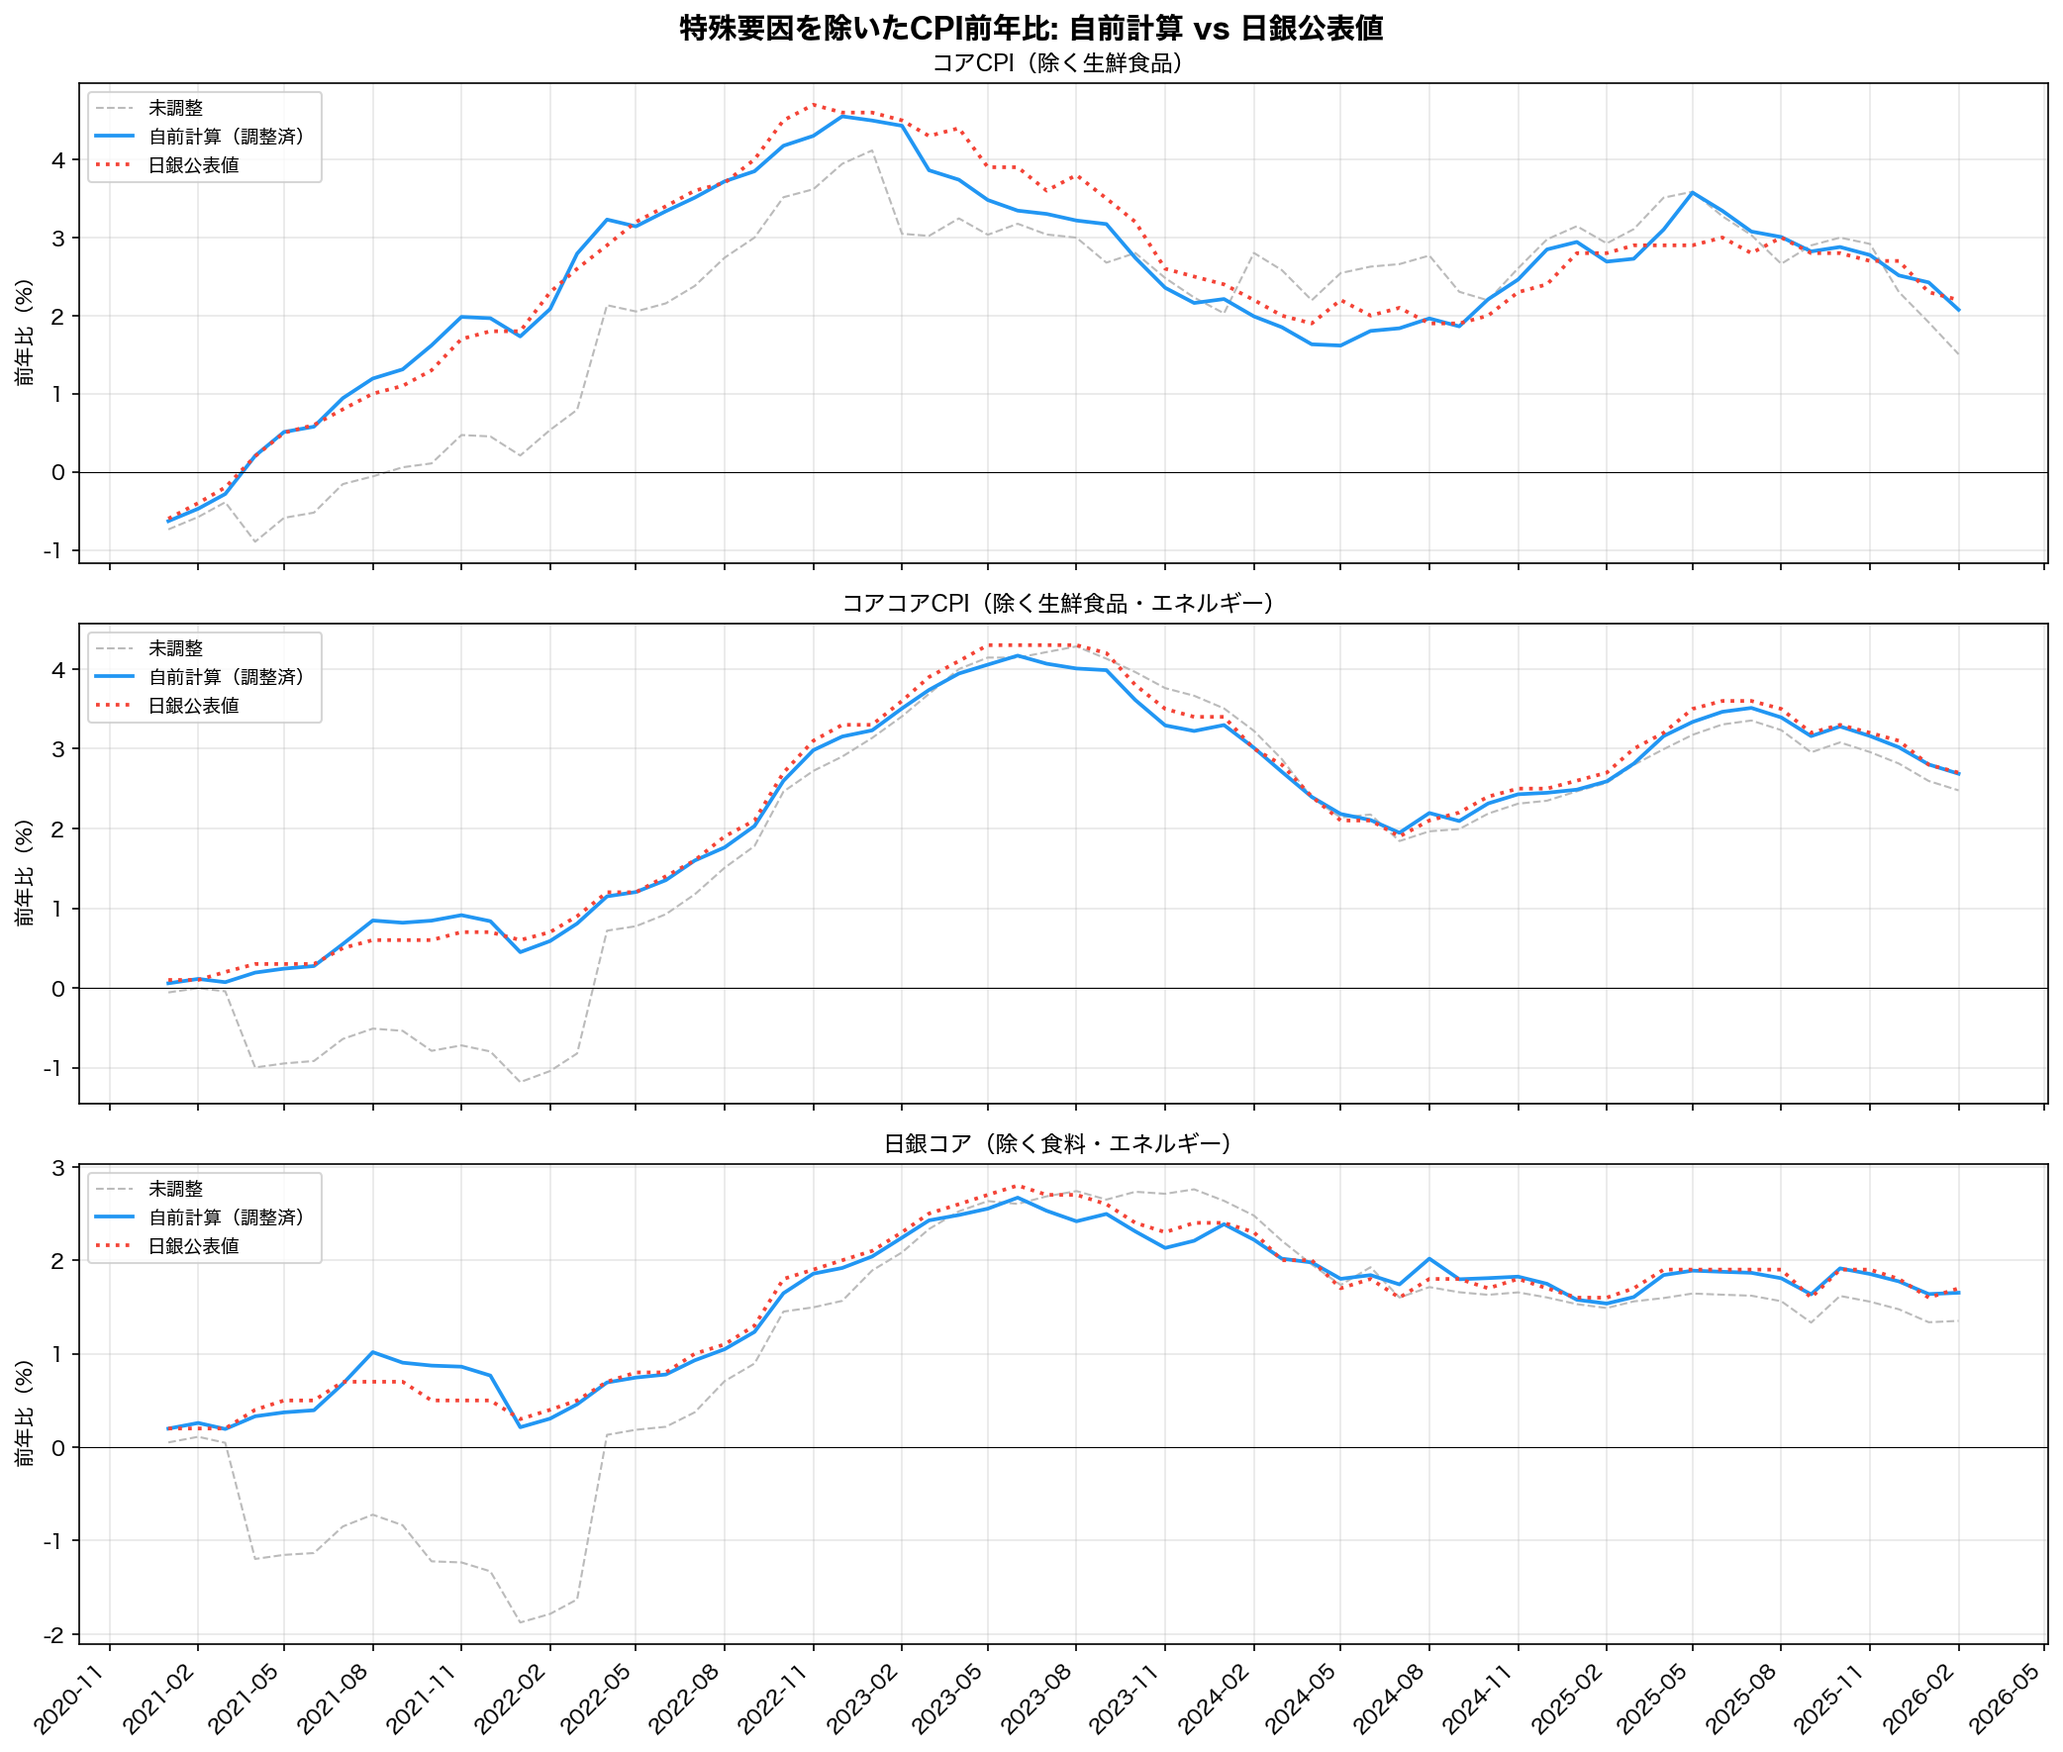
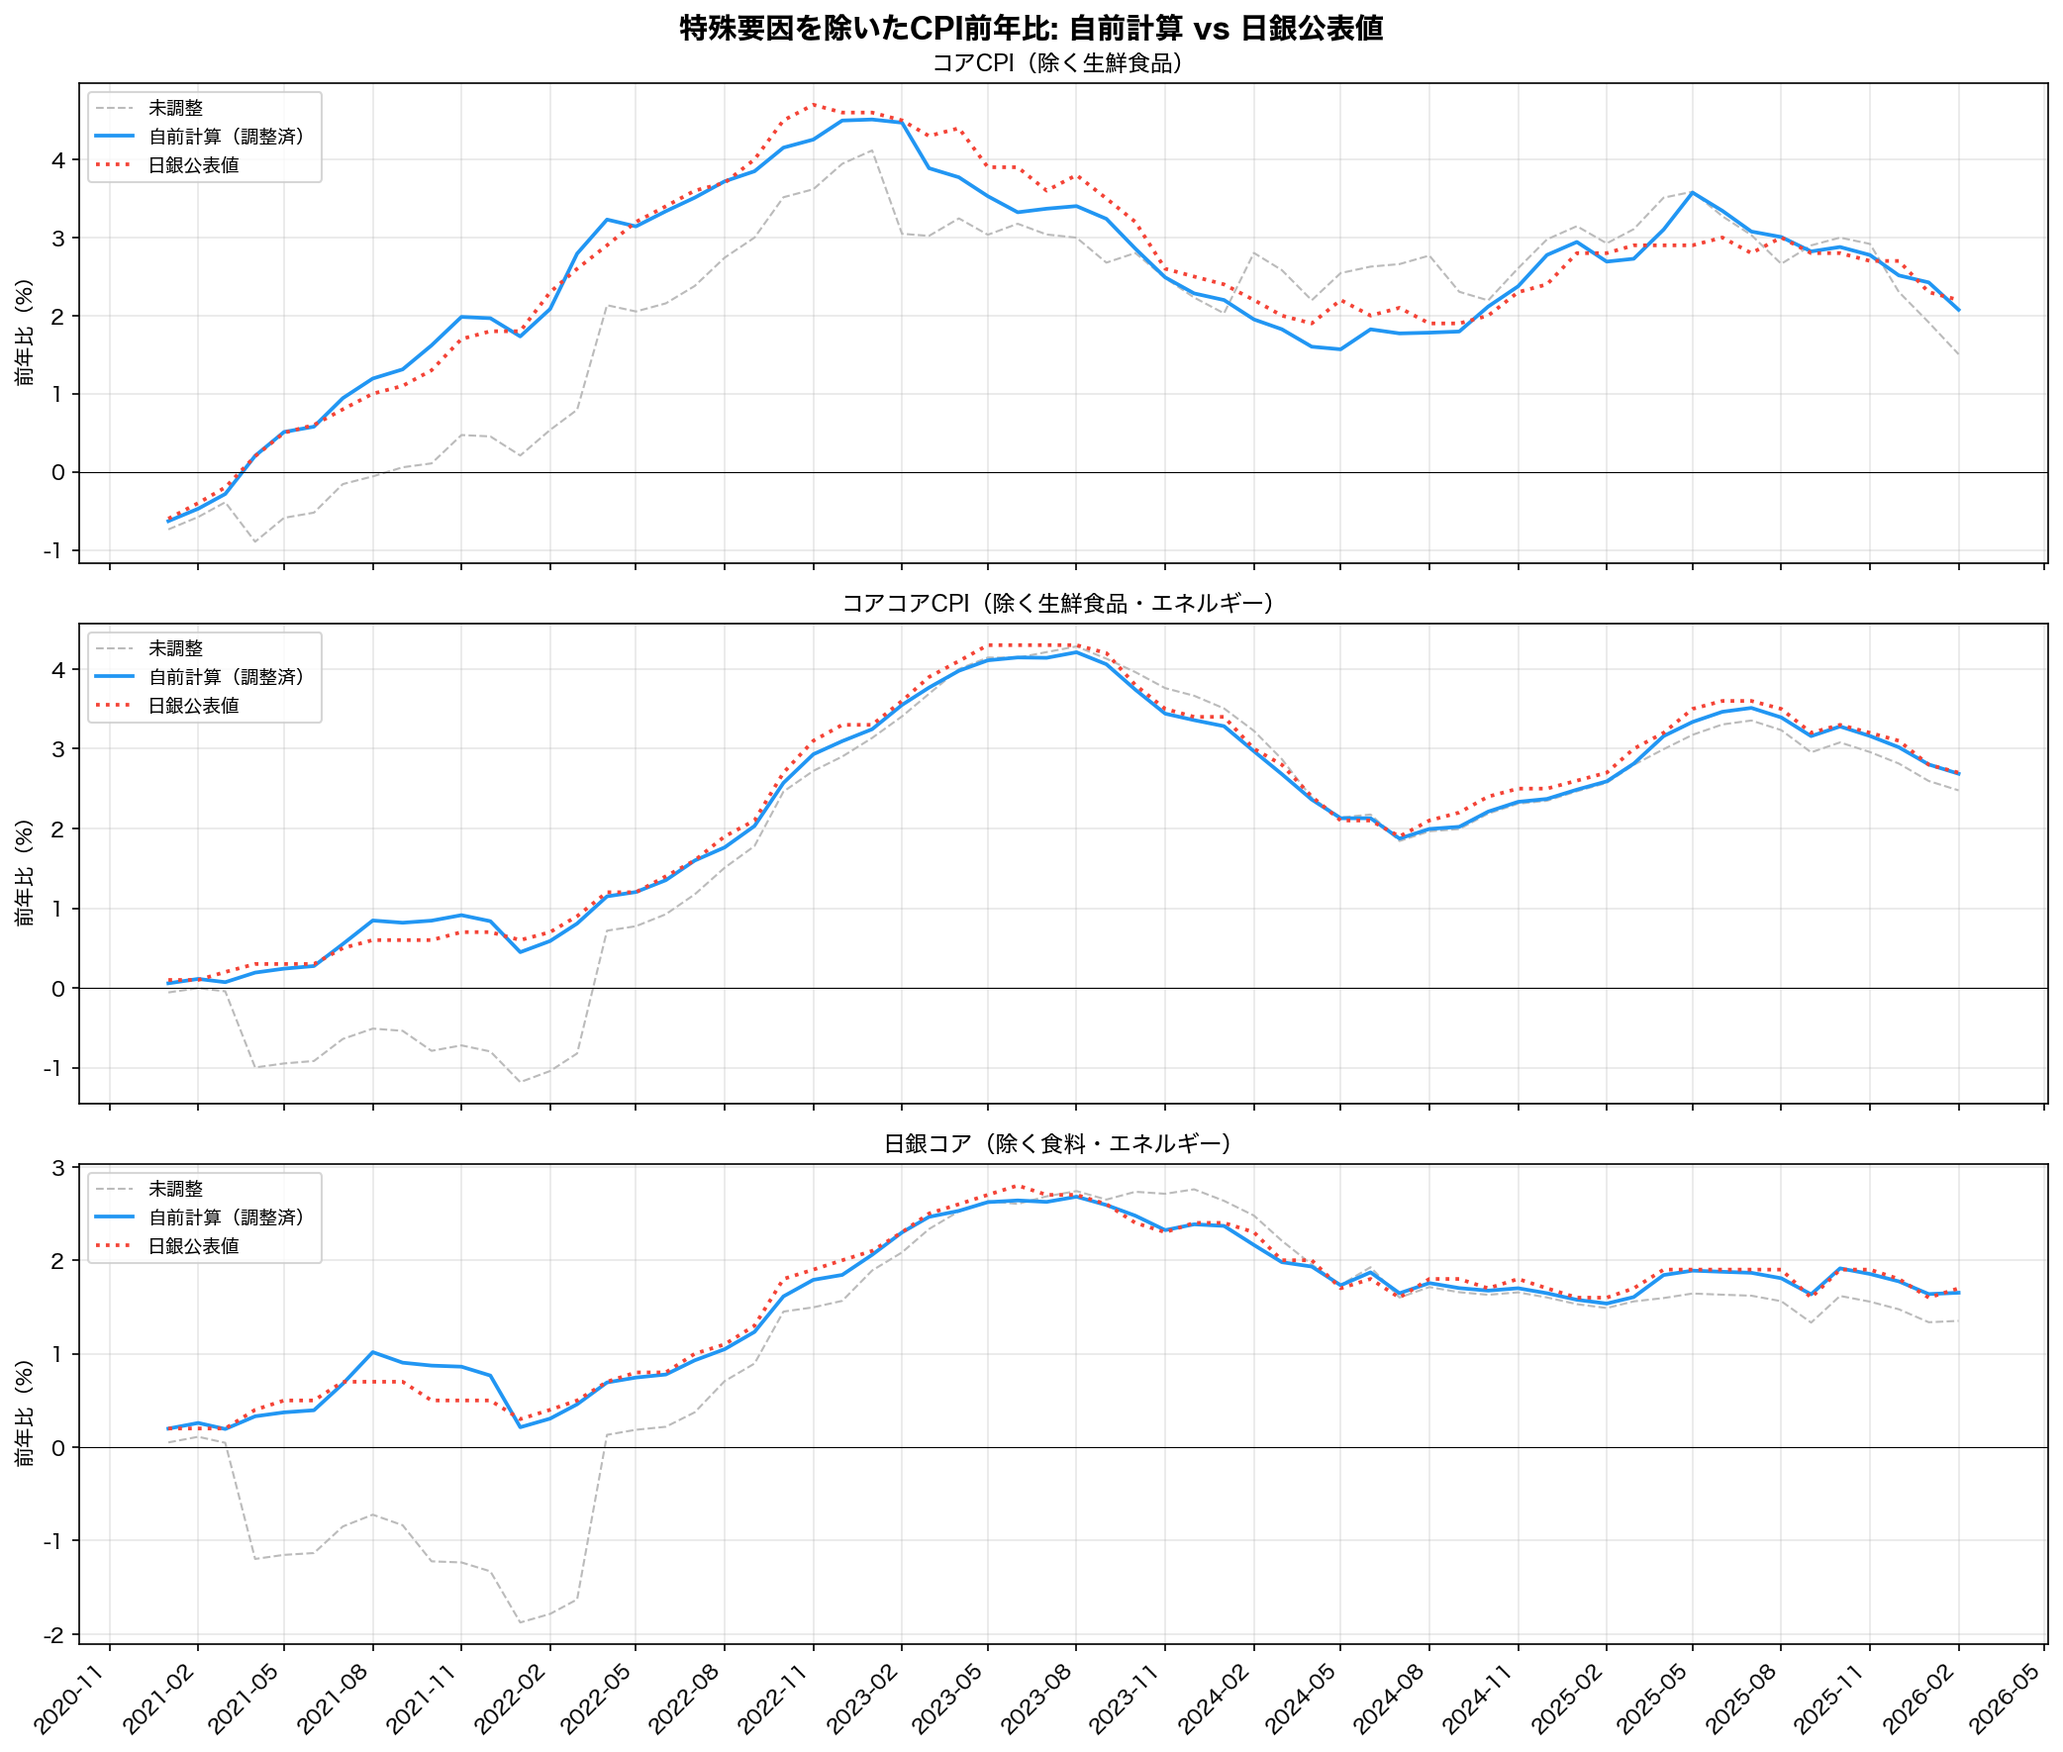
宿泊料を前年同月トレンド延長方式に改修
旧: 線形補間（季節パターンが消え、ベース効果反動が過大）
新: 支援前の前年同月トレンドで支援期間中の自然な指数を推定
  - 2022-10〜12: 2021年同月×支援前トレンド(+4.1%)
  - 2023-01〜06: 2022年同月×年率成長(+12.4%)
  - 2023-07〜: 実績値（支援終了後）

2023年コアCPI MAE: 0.37→0.31pp

diff --git a/src/adjust_interpolation.py b/src/adjust_interpolation.py
@@ -56,30 +56,52 @@ def adjust_mobile(cpi_index: pd.Series) -> pd.Series:
 
 
 def adjust_hotel(cpi_index: pd.Series) -> pd.Series:
-    """宿泊料の調整（一時的な旅行支援の除去）
+    """宿泊料の調整（前年同月トレンド延長方式）
 
-    旅行支援期間（2022-10〜2023-12）の指数に段差を加算。
-    支援開始直前月（2022-09）と支援終了直後月（2024-01）の指数を端点とし、
-    期間中の値を線形補間で置換する。
-    支援終了後は実績値をそのまま使用。
+    旅行支援期間中の指数を、支援前のトレンドで延長した
+    「自然な指数」で置換する。季節パターンが保持される。
+
+    支援期間:
+      2022-10〜2022-12: 40%割引（上限8,000円）
+      2023-01〜2023-06: 20%割引（上限5,000円、断続的）
+
+    推定方法:
+      2022-10〜12: 2021年同月 × (支援前Q1-Q3の平均前年比)
+      2023-01〜06: 2022年同月 × (支援なし月の年率成長)
+      2023-07以降: 実績値（支援終了後）
     """
     adjusted = cpi_index.copy()
-    all_months = list(cpi_index.index)
 
-    start_ym = "2022-09"
-    end_ym = "2024-01"
-    if start_ym not in all_months or end_ym not in all_months:
-        return adjusted
+    # 支援前トレンド: 2021→2022のQ1-Q3平均前年比
+    pre_yoy_list = []
+    for m in range(1, 10):
+        ym22 = f"2022-{m:02d}"
+        ym21 = f"2021-{m:02d}"
+        if ym22 in cpi_index.index and ym21 in cpi_index.index:
+            pre_yoy_list.append(cpi_index[ym22] / cpi_index[ym21] - 1)
+    pre_yoy = sum(pre_yoy_list) / len(pre_yoy_list) if pre_yoy_list else 0
 
-    i_start = all_months.index(start_ym)
-    i_end = all_months.index(end_ym)
-    val_start = cpi_index[start_ym]
-    val_end = cpi_index[end_ym]
-    n_months = i_end - i_start
+    # 2022→2024の年率成長（支援なし月、インバウンド回復を含む）
+    growth_list = []
+    for m in range(1, 10):
+        ym24 = f"2024-{m:02d}"
+        ym22 = f"2022-{m:02d}"
+        if ym24 in cpi_index.index and ym22 in cpi_index.index:
+            growth_list.append((cpi_index[ym24] / cpi_index[ym22]) ** 0.5 - 1)
+    annual_growth = sum(growth_list) / len(growth_list) if growth_list else 0
 
-    # 端点間を線形補間（支援期間のみ）
-    for i in range(i_start + 1, i_end):
-        t = (i - i_start) / n_months
-        adjusted.iloc[i] = val_start + (val_end - val_start) * t
+    # 2022-10〜12: 2021年同月 × (1+支援前トレンド)
+    for m in [10, 11, 12]:
+        ym = f"2022-{m:02d}"
+        prev_ym = f"2021-{m:02d}"
+        if ym in adjusted.index and prev_ym in cpi_index.index:
+            adjusted[ym] = cpi_index[prev_ym] * (1 + pre_yoy)
+
+    # 2023-01〜06: 2022年同月 × (1+年率成長)
+    for m in range(1, 7):
+        ym = f"2023-{m:02d}"
+        prev_ym = f"2022-{m:02d}"
+        if ym in adjusted.index and prev_ym in cpi_index.index:
+            adjusted[ym] = cpi_index[prev_ym] * (1 + annual_growth)
 
     return adjusted
